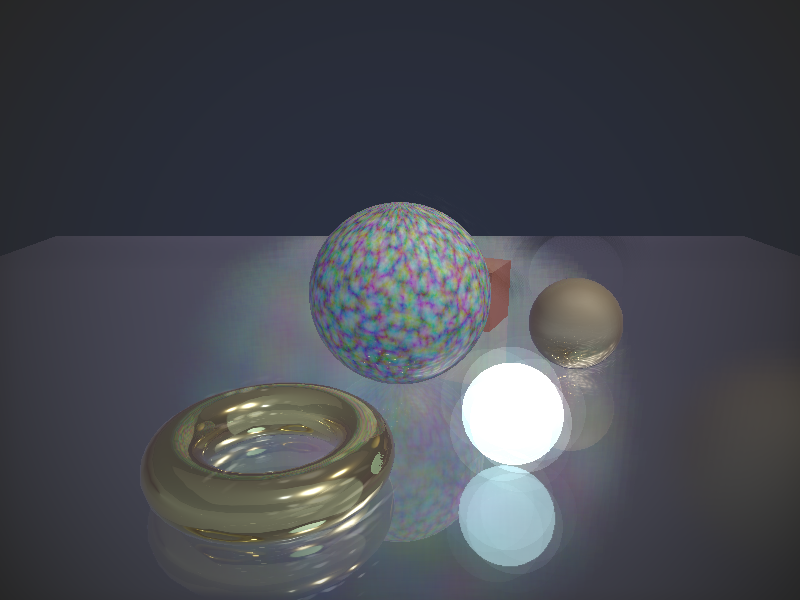
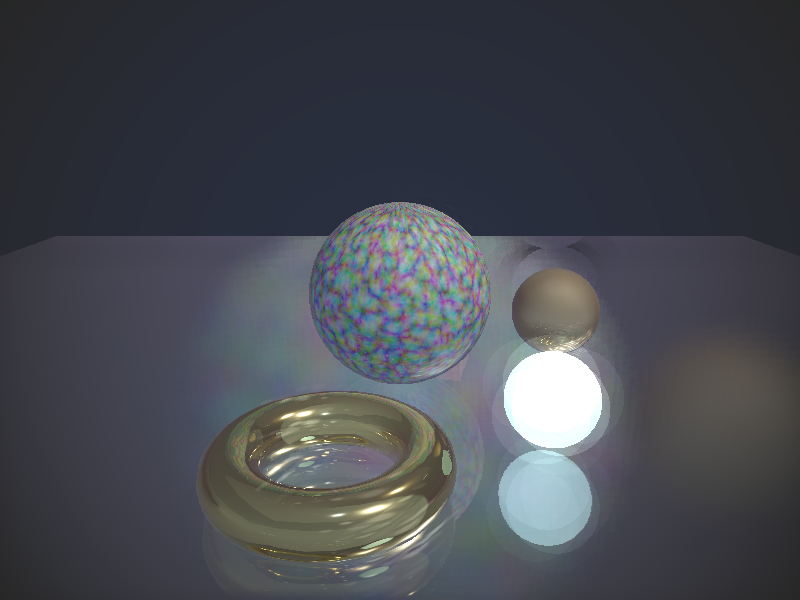
fix(backends): stop scene resizes corrupting frames and leaking attachments
Three defects on the resize path, all reachable from SceneRenderer.resize(),
which destroys and recreates all nine scene textures on every resize event.

The first draw into each new mesh FBO landed on the canvas. executePass binds
the target FBO, calls ensureDepthBuffer, then draws — but on the creation path
ensureDepthBuffer bound the FBO itself and finished by binding null, without
restoring the caller's binding. So the draw went to the default framebuffer:
a visible flash of raw G-buffer albedo, gl.clear(DEPTH_BUFFER_BIT) clearing the
wrong depth, and the real G-buffer left at clear colour for that frame. The
cached path returns before touching bindings, so this hit the first scene frame
and then once per resize. The binding is now saved and restored.

WebGL2 leaked a depth renderbuffer per FBO per resize. destroyTexture deletes
single-texture and MRT framebuffers but never their depth attachments, and
depthBuffers is keyed by the WebGLFramebuffer object itself — so the storage
leaked and the Map retained an entry keyed by a dead object. Both are now
released with the framebuffer.

WebGPU leaked a depth24plus texture per distinct viewport size. The cache is
keyed "WxH" and had no eviction at all; a slow window drag allocated one per
size and held them until destroy(). It is now bounded, with recency refreshed
on hit. Eviction is deferred behind onSubmittedWorkDone rather than immediate,
because destroying a texture an in-flight command buffer still references is a
[…]

Changed region(s): [[0.1875, 0.33, 0.7812, 0.99], [0.1875, 0.81, 0.2188, 0.84]]

diff --git a/shaders/tests/test_webgl2_depth_buffer.js b/shaders/tests/test_webgl2_depth_buffer.js
@@ -1,0 +1,109 @@
+/**
+ * ensureDepthBuffer must leave the framebuffer binding as it found it.
+ *
+ * executePass binds the target FBO, then calls ensureDepthBuffer, then draws.
+ * On the creation path ensureDepthBuffer bound the FBO itself and finished by
+ * binding null without restoring, so the draw that followed went to the default
+ * framebuffer: the first scene frame — and every frame after a resize, since
+ * SceneRenderer.resize() destroys and recreates all nine scene textures —
+ * painted raw G-buffer albedo onto the canvas and left the G-buffer at clear
+ * colour.
+ *
+ * Run: node shaders/tests/test_webgl2_depth_buffer.js
+ */
+
+import assert from 'node:assert'
+import { WebGL2Backend } from '../src/runtime/backends/webgl2.js'
+
+let passed = 0
+let failed = 0
+
+function test(name, fn) {
+    try {
+        fn()
+        console.log(`PASS: ${name}`)
+        passed++
+    } catch (err) {
+        console.error(`FAIL: ${name}`)
+        console.error(err.message)
+        failed++
+    }
+}
+
+/** Minimal GL stub tracking only what this method touches. */
+function stubGl() {
+    return {
+        FRAMEBUFFER: 'FRAMEBUFFER',
+        RENDERBUFFER: 'RENDERBUFFER',
+        FRAMEBUFFER_BINDING: 'FRAMEBUFFER_BINDING',
+        DEPTH_ATTACHMENT: 'DEPTH_ATTACHMENT',
+        DEPTH_COMPONENT24: 'DEPTH_COMPONENT24',
+        FRAMEBUFFER_COMPLETE: 'COMPLETE',
+        boundFramebuffer: null,
+        createRenderbuffer() { return { id: 'rb' } },
+        bindRenderbuffer() {},
+        renderbufferStorage() {},
+        bindFramebuffer(_target, fbo) { this.boundFramebuffer = fbo },
+        framebufferRenderbuffer() {},
+        checkFramebufferStatus() { return 'COMPLETE' },
+        deletedRenderbuffers: [],
+        deletedFramebuffers: [],
+        deleteRenderbuffer(rb) { this.deletedRenderbuffers.push(rb) },
+        deleteFramebuffer(fbo) { this.deletedFramebuffers.push(fbo) },
+        deleteTexture() {},
+        getParameter(p) { return p === 'FRAMEBUFFER_BINDING' ? this.boundFramebuffer : null }
+    }
+}
+
+function backendWith(gl) {
+    const backend = Object.create(WebGL2Backend.prototype)
+    backend.gl = gl
+    backend.depthBuffers = new Map()
+    return backend
+}
+
+test('creation path restores the caller\'s framebuffer binding', () => {
+    const gl = stubGl()
+    const backend = backendWith(gl)
+    const target = { id: 'mesh-fbo' }
+
+    gl.bindFramebuffer(gl.FRAMEBUFFER, target)   // what executePass does
+    backend.ensureDepthBuffer(target, 320, 240)
+
+    assert.strictEqual(gl.boundFramebuffer, target,
+        'the draw that follows must still target the mesh FBO, not the canvas')
+})
+
+test('cached path leaves the binding untouched', () => {
+    const gl = stubGl()
+    const backend = backendWith(gl)
+    const target = { id: 'mesh-fbo' }
+
+    backend.ensureDepthBuffer(target, 320, 240)
+    gl.bindFramebuffer(gl.FRAMEBUFFER, target)
+    backend.ensureDepthBuffer(target, 320, 240)   // cache hit
+
+    assert.strictEqual(gl.boundFramebuffer, target, 'cache hit must not rebind')
+})
+
+test('destroying a texture releases the depth renderbuffers of its FBOs', () => {
+    const gl = stubGl()
+    const backend = backendWith(gl)
+    backend.textures = new Map([['scene_gbuf_albedo_metallic', { handle: 't' }]])
+    const mrtFbo = { id: 'mrt-fbo' }
+    backend.fbos = new Map([['mrt_scene_pass_scene_gbuf_albedo_metallic', mrtFbo]])
+    backend.ensureDepthBuffer(mrtFbo, 320, 240)
+    assert.strictEqual(backend.depthBuffers.size, 1, 'precondition: a depth buffer exists')
+
+    // SceneRenderer.resize() destroys and recreates every scene texture, so
+    // this runs on each resize event.
+    backend.destroyTexture('scene_gbuf_albedo_metallic')
+
+    assert.strictEqual(gl.deletedRenderbuffers.length, 1,
+        'the depth renderbuffer must be deleted with its FBO')
+    assert.strictEqual(backend.depthBuffers.size, 0,
+        'depthBuffers is keyed by the deleted framebuffer object and must not retain it')
+})
+
+console.log(`\nWebGL2 depth buffer: ${passed} passed, ${failed} failed`)
+if (failed > 0) process.exit(1)

diff --git a/shaders/src/runtime/backends/webgpu.js b/shaders/src/runtime/backends/webgpu.js
@@ -57,6 +57,9 @@ function float16ToFloat32(h) {
  * @param {string|undefined} cullMode - 'none' | 'front' | 'back' | undefined
  * @returns {{cullMode: string, frontFace?: string}} WebGPU primitive state
  */
+/** How many distinct viewport sizes keep a depth texture alive. */
+const DEPTH_TEXTURE_CACHE_LIMIT = 4
+
 export function resolveCullState(cullMode) {
     if (cullMode === 'none') return { cullMode: 'none' }
     return { cullMode: cullMode === 'front' ? 'front' : 'back', frontFace: 'cw' }
@@ -2092,15 +2095,51 @@ export class WebGPUBackend extends Backend {
         if (!this.depthTextures) this.depthTextures = new Map()
         const key = `${width}x${height}`
         let depthTexture = this.depthTextures.get(key)
-        if (!depthTexture) {
-            depthTexture = this.device.createTexture({
-                size: { width, height, depthOrArrayLayers: 1 },
-                format: 'depth24plus',
-                usage: GPUTextureUsage.RENDER_ATTACHMENT
-            })
+        if (depthTexture) {
+            // Refresh recency: Map iterates in insertion order, so re-inserting
+            // moves this size to the young end for eviction purposes.
+            this.depthTextures.delete(key)
             this.depthTextures.set(key, depthTexture)
+            return depthTexture
+        }
+        depthTexture = this.device.createTexture({
+            size: { width, height, depthOrArrayLayers: 1 },
+            format: 'depth24plus',
+            usage: GPUTextureUsage.RENDER_ATTACHMENT
+        })
+        this.depthTextures.set(key, depthTexture)
+
+        // Bound the cache. Keyed by size and never evicted, a resize drag
+        // allocated one depth24plus texture per distinct viewport size and kept
+        // every one of them until destroy().
+        while (this.depthTextures.size > DEPTH_TEXTURE_CACHE_LIMIT) {
+            const oldestKey = this.depthTextures.keys().next().value
+            const evicted = this.depthTextures.get(oldestKey)
+            this.depthTextures.delete(oldestKey)
+            this.retireDepthTexture(evicted)
         }
         return depthTexture
+    }
+
+    /**
+     * Destroy an evicted depth texture once the GPU has finished with it.
+     *
+     * Destroying a texture an in-flight command buffer still references is a
+     * validation error, which is why eviction cannot be immediate. Retirements
+     * are batched behind a single onSubmittedWorkDone().
+     * @param {GPUTexture} texture - Evicted depth texture
+     */
+    retireDepthTexture(texture) {
+        if (!texture) return
+        if (!this._retiredDepthTextures) this._retiredDepthTextures = []
+        this._retiredDepthTextures.push(texture)
+        if (this._depthRetireScheduled) return
+        this._depthRetireScheduled = true
+        this.device.queue.onSubmittedWorkDone().then(() => {
+            for (const retired of this._retiredDepthTextures) retired.destroy()
+            this._retiredDepthTextures.length = 0
+            this._depthRetireScheduled = false
+        })
     }
 
     /**

diff --git a/shaders/tests/test_webgpu_depth_cache.js b/shaders/tests/test_webgpu_depth_cache.js
@@ -1,0 +1,77 @@
+/**
+ * The WebGPU depth-texture cache must be bounded.
+ *
+ * It is keyed by "WxH" and was never evicted, so every distinct viewport size
+ * seen during a resize drag permanently allocated a depth24plus texture — and
+ * SceneRenderer.resize() fires per resize event. Eviction has to be deferred
+ * until submitted work has completed: destroying a texture still referenced by
+ * an in-flight command buffer is a validation error, which is why the previous
+ * size-keyed eviction was removed rather than fixed.
+ *
+ * Run: node shaders/tests/test_webgpu_depth_cache.js
+ */
+
+import assert from 'node:assert'
+import { WebGPUBackend } from '../src/runtime/backends/webgpu.js'
+
+// Browser global the backend reads when describing the texture.
+globalThis.GPUTextureUsage = globalThis.GPUTextureUsage ?? { RENDER_ATTACHMENT: 0x10 }
+
+let passed = 0
+let failed = 0
+
+async function test(name, fn) {
+    try {
+        await fn()
+        console.log(`PASS: ${name}`)
+        passed++
+    } catch (err) {
+        console.error(`FAIL: ${name}`)
+        console.error(err.message)
+        failed++
+    }
+}
+
+function stubBackend() {
+    const destroyed = []
+    let resolveWork = null
+    const backend = Object.create(WebGPUBackend.prototype)
+    backend.depthTextures = new Map()
+    backend.device = {
+        createTexture(desc) {
+            return { desc, destroy() { destroyed.push(this) } }
+        },
+        queue: {
+            onSubmittedWorkDone() {
+                return new Promise(resolve => { resolveWork = resolve })
+            }
+        }
+    }
+    return { backend, destroyed, flushGpu: async () => { if (resolveWork) resolveWork(); await Promise.resolve() } }
+}
+
+await test('the cache does not grow without bound across resize sizes', async () => {
+    const { backend } = stubBackend()
+    for (let i = 0; i < 40; i++) backend.getDepthTexture(320 + i, 240)
+    assert.ok(backend.depthTextures.size <= 8,
+        `depth cache grew to ${backend.depthTextures.size} entries across 40 resize steps`)
+})
+
+await test('a still-current size is reused rather than recreated', async () => {
+    const { backend } = stubBackend()
+    const a = backend.getDepthTexture(320, 240)
+    const b = backend.getDepthTexture(320, 240)
+    assert.strictEqual(a, b, 'same size must hit the cache')
+})
+
+await test('evicted depth textures are destroyed only after submitted work completes', async () => {
+    const { backend, destroyed, flushGpu } = stubBackend()
+    for (let i = 0; i < 40; i++) backend.getDepthTexture(320 + i, 240)
+    assert.strictEqual(destroyed.length, 0,
+        'nothing may be destroyed while command buffers may still reference it')
+    await flushGpu()
+    assert.ok(destroyed.length > 0, 'evicted textures are released once the GPU is idle')
+})
+
+console.log(`\nWebGPU depth cache: ${passed} passed, ${failed} failed`)
+if (failed > 0) process.exit(1)

diff --git a/shaders/src/runtime/backends/webgl2.js b/shaders/src/runtime/backends/webgl2.js
@@ -394,6 +394,11 @@ export class WebGL2Backend extends Backend {
             return
         }
 
+        // executePass binds the target FBO before calling this and draws right
+        // after, so the caller's binding has to survive. Finishing on null sent
+        // that draw to the default framebuffer instead.
+        const previousFramebuffer = gl.getParameter(gl.FRAMEBUFFER_BINDING)
+
         // Create new depth renderbuffer
         const depthBuffer = gl.createRenderbuffer()
         gl.bindRenderbuffer(gl.RENDERBUFFER, depthBuffer)
@@ -409,7 +414,7 @@ export class WebGL2Backend extends Backend {
             console.warn(`[ensureDepthBuffer] FBO incomplete after adding depth: ${status}`)
         }
 
-        gl.bindFramebuffer(gl.FRAMEBUFFER, null)
+        gl.bindFramebuffer(gl.FRAMEBUFFER, previousFramebuffer)
         gl.bindRenderbuffer(gl.RENDERBUFFER, null)
 
         this.depthBuffers.set(fbo, { buffer: depthBuffer, width, height })
@@ -781,6 +786,7 @@ export class WebGL2Backend extends Backend {
         // Delete single-texture FBO for this texture
         const fbo = this.fbos.get(id)
         if (fbo) {
+            this.releaseDepthBuffer(fbo)
             gl.deleteFramebuffer(fbo)
             this.fbos.delete(id)
         }
@@ -794,9 +800,29 @@ export class WebGL2Backend extends Backend {
             }
         }
         for (const mrtId of mrtToDelete) {
-            gl.deleteFramebuffer(this.fbos.get(mrtId))
+            const mrtFbo = this.fbos.get(mrtId)
+            this.releaseDepthBuffer(mrtFbo)
+            gl.deleteFramebuffer(mrtFbo)
             this.fbos.delete(mrtId)
         }
+    }
+
+    /**
+     * Release the depth renderbuffer attached to an FBO, if any.
+     *
+     * depthBuffers is keyed by the WebGLFramebuffer object itself, so deleting
+     * the framebuffer without this both leaks the DEPTH_COMPONENT24 storage and
+     * leaves a Map entry keyed by a dead object. SceneRenderer.resize()
+     * destroys and recreates every scene texture, so that happened once per FBO
+     * per resize event.
+     * @param {WebGLFramebuffer} fbo - Framebuffer being deleted
+     */
+    releaseDepthBuffer(fbo) {
+        if (!fbo) return
+        const depth = this.depthBuffers.get(fbo)
+        if (!depth) return
+        this.gl.deleteRenderbuffer(depth.buffer)
+        this.depthBuffers.delete(fbo)
     }
 
     /**

diff --git a/scripts/run-js-tests.js b/scripts/run-js-tests.js
@@ -61,6 +61,8 @@ const testEntries = [
   { file: 'shaders/tests/test_scene_graph_wiring.js', parity: false },
   { file: 'shaders/tests/test_scene_bindings.js', parity: false },
   { file: 'shaders/tests/test_scene_integration.js', parity: false },
+  { file: 'shaders/tests/test_webgl2_depth_buffer.js', parity: false },
+  { file: 'shaders/tests/test_webgpu_depth_cache.js', parity: false },
   { file: 'shaders/tests/test_gbuffer.js', parity: false },
   { file: 'shaders/tests/test_scene_renderer.js', parity: false },
   { file: 'shaders/tests/test_procedural.js', parity: false },
